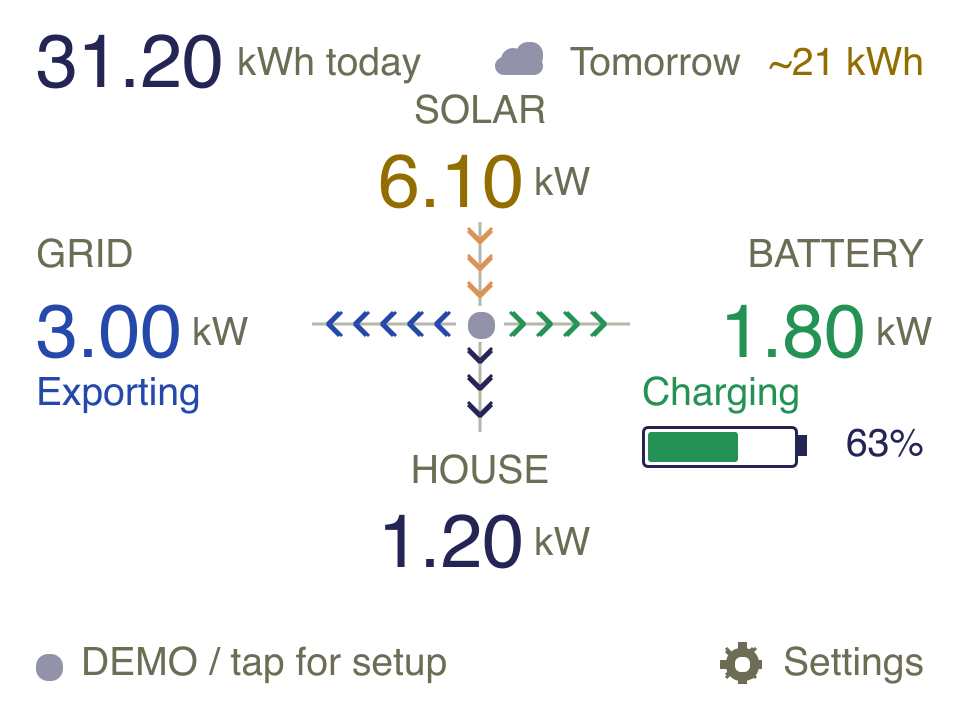
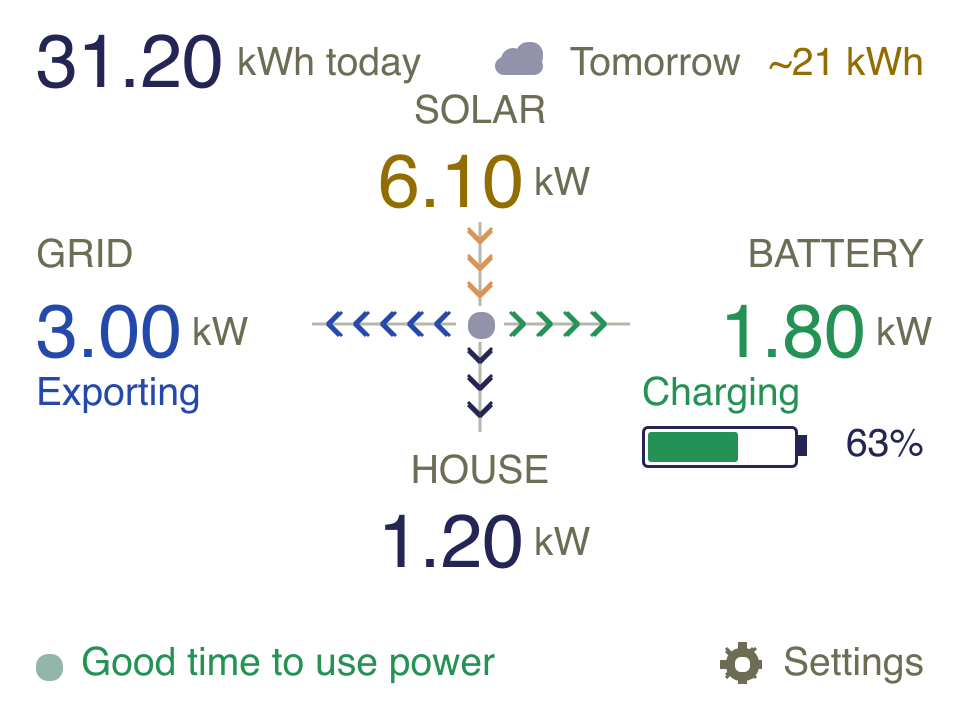
docs(handbook): match display section to firmware, consolidate markers
- Annotate the clock-and-weather top row; 17 markers cut to 9
- Arrows explained once; battery gauge and percentage combined
- kWh top row shown as a separate figure
- Previews drawn as live readings, not demo
- Fix not-configured caption and solar formula wording

Changed region(s): [[0.0312, 0.8861, 0.5312, 0.9472]]

diff --git a/docs/index.html b/docs/index.html
@@ -143,49 +143,36 @@ pio device monitor -b 115200 --port /dev/cu.usbserial-10</pre>
 <p>The bar along the bottom shows how long the screen stays up. It closes <b>6 seconds after Wi-Fi connects</b>, so the IP address can be read, or after <b>15 seconds</b> if Wi-Fi hasn't connected (the panel then shows the Wi-Fi setup page). A tap closes it at once. Readings are fetched in the background meanwhile, so the energy display is usually live as soon as it appears. Both times are <code>APP_BOOT_HOLD_MS</code> and <code>APP_BOOT_MAX_MS</code> in <code>include/config.h</code>.</p>
 
 <h2 id="display">The display</h2>
-<p>The centre-flow layout puts the four power flows on arms meeting at a central hub: solar above, house below, grid to the left and battery to the right. Arrows (chevrons) move in the direction power flows.</p>
+<p>The centre-flow layout puts the four power flows on arms meeting at a central dot, the inverter: solar above, house below, grid to the left and battery to the right. Each power figure is shown as a positive number, in watts below 1 kW and kW to two decimals above.</p>
+<p><b>Arrows.</b> Chevrons march along an arm in the direction power is flowing, in that reading's colour, while it is above 30 W. Solar always flows in and the house always flows out; grid arrows point in when importing and out when exporting; battery arrows point out when charging and in when the battery is supplying the house. Below 30 W, or when a reading isn't live, only a faint grey track is left.</p>
 <figure>
 <div class="annotated">
-<img src="images/centre-flow-preview.svg" alt="Annotated centre-flow layout">
-<span class="m" style="left:2%;top:6%">1</span>
-<span class="m" style="left:49%;top:6%">2</span>
-<span class="m" style="left:37%;top:24%">3</span>
-<span class="m" style="left:55%;top:37%">4</span>
-<span class="m" style="left:2%;top:33%">5</span>
-<span class="m" style="left:40%;top:40%">6</span>
-<span class="m" style="left:46%;top:52%">7</span>
-<span class="m" style="left:98%;top:33%">8</span>
-<span class="m" style="left:60%;top:40%">9</span>
-<span class="m" style="left:2%;top:55%">10</span>
-<span class="m" style="left:64%;top:55%">11</span>
-<span class="m" style="left:64%;top:65%">12</span>
-<span class="m" style="left:98%;top:62%">13</span>
-<span class="m" style="left:55%;top:55%">14</span>
-<span class="m" style="left:37%;top:74%">15</span>
-<span class="m" style="left:2%;top:91%">16</span>
-<span class="m" style="left:72%;top:91%">17</span>
+<img src="images/centre-weather-preview.svg" alt="Annotated centre-flow layout">
+<span class="m" style="left:34%;top:9%">1</span>
+<span class="m" style="left:58%;top:9%">2</span>
+<span class="m" style="left:60%;top:15%">3</span>
+<span class="m" style="left:17%;top:35%">4</span>
+<span class="m" style="left:74%;top:35%">5</span>
+<span class="m" style="left:64%;top:62%">6</span>
+<span class="m" style="left:40%;top:65%">7</span>
+<span class="m" style="left:55%;top:92%">8</span>
+<span class="m" style="left:72%;top:92%">9</span>
 </div>
-<figcaption>Numbered areas of the centre-flow layout (sample: importing from the grid while charging the battery).</figcaption>
+<figcaption>Centre-flow layout with weather set and no optional kWh entities (sample: exporting while charging the battery).</figcaption>
 </figure>
 <ol class="legend">
-<li><b>Today's solar energy</b> in kWh, from the optional daily entity. Without it, the clock is shown here, followed by the current temperature when weather is on.</li>
-<li><b>Tomorrow.</b> A weather icon for tomorrow's conditions, then the solar forecast (<code>~21 kWh</code>) or, without a forecast entity, tomorrow's maximum temperature. Shows <code>DEMO</code> or <code>OFFLINE</code> when neither is available.</li>
-<li><b>SOLAR</b>: generation, calculated as inverter DC power plus battery charging power, never below zero. Shown in watts below 1 kW, otherwise kW to two decimals.</li>
-<li><b>Solar arrows</b> run down into the hub while solar exceeds 30 W.</li>
-<li><b>GRID</b>: grid power, always shown as a positive number; the words beneath give the direction.</li>
-<li><b>Grid arrows</b> point into the hub when importing and away from it when exporting.</li>
-<li><b>Hub</b>: the inverter, where the four flows balance.</li>
-<li><b>BATTERY</b>: battery power, shown as a positive number.</li>
-<li><b>Battery arrows</b> point away from the hub when charging and into it when the battery is supplying the house.</li>
-<li><b>Grid state</b>: <i>Importing</i>, <i>Exporting</i>, <i>Idle</i> (within ±30 W) or <i>No data</i>.</li>
-<li><b>Battery state</b>: <i>Charging</i>, <i>Supplying</i> (discharging into the inverter to cover what the house needs), <i>Idle</i> or <i>No data</i>.</li>
-<li><b>Battery gauge</b>: filled to the state of energy. <span class="swatch" style="background:#249255"></span>green at 50% and above, <span class="swatch" style="background:#db9255"></span>amber from 20%, <span class="swatch" style="background:#db2400"></span>red below 20%.</li>
-<li><b>State of energy</b> as a percentage. This is the battery's charge level, not a share of the house load.</li>
-<li><b>House arrows</b> run from the hub down to the house while demand exceeds 30 W.</li>
-<li><b>HOUSE</b>: house demand, from the household entity.</li>
+<li><b>Clock and current temperature.</b> The temperature appears once a location is set. With the optional <i>Solar energy today</i> entity, today's solar kWh replaces both (see below).</li>
+<li><b>Tomorrow</b>: a weather icon and tomorrow's maximum temperature, or the solar forecast (<code>~21 kWh</code>) when a forecast entity is set. Shows <code>OFFLINE</code> when Wi-Fi is down and there is nothing to show here.</li>
+<li><b>Solar</b> generation: inverter DC power less any battery discharge, never below zero.</li>
+<li><b>Grid</b> power, with <i>Importing</i>, <i>Exporting</i>, <i>Idle</i> (within ±30 W) or <i>No data</i> beneath.</li>
+<li><b>Battery</b> power, with <i>Charging</i>, <i>Supplying</i> (covering what the house needs), <i>Idle</i> or <i>No data</i> beneath.</li>
+<li><b>Battery gauge</b>: filled to the state of energy, with the percentage beside it. <span class="swatch" style="background:#249255"></span>Green at 50% and above, <span class="swatch" style="background:#db9255"></span>amber from 20%, <span class="swatch" style="background:#db2400"></span>red below 20%. It is the charge level, not a share of the house load.</li>
+<li><b>House</b> demand, from the household entity.</li>
 <li><b>Status line.</b> A green dot and <i>Good time to use power</i> when every reading is live and you are exporting more than 100 W, or charging above 100 W with the battery at 95% or more. Otherwise <i>All readings live</i>, or the reason readings are missing (see <a href="#states">states</a>).</li>
 <li><b>Settings</b>: a reminder that tapping the screen opens the device setup page.</li>
 </ol>
+<figure><span class="panel"><img src="images/centre-flow-preview.svg" alt="Top row with today's solar energy and tomorrow's solar forecast"></span>
+<figcaption><b>With the optional kWh entities.</b> Today's solar energy replaces the clock top-left, and tomorrow's solar forecast replaces the maximum temperature top-right. Set them under <a href="#ha">Home Assistant setup</a>.</figcaption></figure>
 <div class="note"><b>Greyed values.</b> A value turns light grey and its arrows stop when the reading is missing, stale, or Wi-Fi is down. The last good number stays on screen rather than dropping to zero, so a grey <code>1.53</code> means "last known", not "now".</div>
 
 <h2 id="states">Display states</h2>
@@ -195,7 +182,7 @@ pio device monitor -b 115200 --port /dev/cu.usbserial-10</pre>
 <figure><span class="panel"><img src="images/centre-discharge-preview.svg" alt=""></span><figcaption><b>Battery supplying.</b> No solar; the battery covers the house and battery arrows point into the hub.</figcaption></figure>
 <figure><span class="panel"><img src="images/centre-night-preview.svg" alt=""></span><figcaption><b>Night.</b> Only the grid supplies the house; idle arms show a faint track without arrows.</figcaption></figure>
 <figure><span class="panel"><img src="images/centre-stale-preview.svg" alt=""></span><figcaption><b>Offline or stale.</b> Values grey out and keep their last numbers; the status line gives the reason.</figcaption></figure>
-<figure><span class="panel"><img src="images/centre-setup-preview.svg" alt=""></span><figcaption><b>Not configured.</b> No readings yet; the status line asks for a Home Assistant token.</figcaption></figure>
+<figure><span class="panel"><img src="images/centre-setup-preview.svg" alt=""></span><figcaption><b>Not configured.</b> No readings yet, so every value shows <code>--</code>. The browser's Device status panel says <i>Configure Home Assistant token</i>.</figcaption></figure>
 <figure><span class="panel"><img src="images/centre-weather-preview.svg" alt=""></span><figcaption><b>Weather only.</b> Without the optional kWh entities, the clock and current temperature appear top-left and tomorrow's maximum top-right.</figcaption></figure>
 </div>
 <h3>Status line messages</h3>
@@ -261,7 +248,7 @@ pio device monitor -b 115200 --port /dev/cu.usbserial-10</pre>
 
 <h2 id="data">How readings are judged</h2>
 <h3>Signs and solar</h3>
-<p>Internally, grid is positive for import and battery is positive for discharge; the Home Assistant sources use the opposite signs and are converted on read. Solar is <code>max(inverter DC + battery charging, 0)</code>, the single-inverter, single-battery formula documented by SolarEdge Modbus Multi. Inverter AC is never used for solar, and battery DC is never added to the AC household balance.</p>
+<p>Internally, grid is positive for import and battery is positive for discharge; the Home Assistant sources use the opposite signs and are converted on read. Solar is <code>max(inverter DC − battery discharge, 0)</code> (a charging battery counts as negative discharge, so its power is added back), the single-inverter, single-battery formula documented by SolarEdge Modbus Multi. Inverter AC is never used for solar, and battery DC is never added to the AC household balance.</p>
 <h3>Freshness</h3>
 <ul>
 <li>A reading must have been received within <b>Stale after</b> seconds.</li>

diff --git a/tools/render_preview.cpp b/tools/render_preview.cpp
@@ -55,9 +55,10 @@ int main(int argc,char**argv) {
     for(bool& b:v.totalLive)b=true;
     v.weatherLive=true;
     if(argc>3)for(bool& b:v.totalLive)b=false;  // No HA totals: clock and weather only.
-    v.status="DEMO / tap for setup";v.address="192.168.1.50";v.batteryLabel="LG 9.8 kWh";
+    // Sample values come from the demo scenes, but are drawn as live readings.
+    v.data.demo=false;v.status="Live / tap for device settings";v.address="192.168.1.50";v.batteryLabel="LG 9.8 kWh";
     if(scene==4){for(bool& b:v.usable)b=false;for(bool& b:v.totalLive)b=false;v.weatherLive=false;v.data.demo=false;v.wifi=false;v.status="WiFi disconnected";}
-    if(scene==5){v.weatherLive=false;v.data=energy::Snapshot();for(bool& b:v.usable)b=false;for(bool& b:v.totalLive)b=false;v.status="Configure Home Assistant";}
+    if(scene==5){v.weatherLive=false;v.data=energy::Snapshot();for(bool& b:v.usable)b=false;for(bool& b:v.totalLive)b=false;v.status="Waiting / stale or unavailable";}
     std::cout<<head;
     ui::drawFlow(c,v);std::cout<<"</svg>\n";
 }

diff --git a/CHANGELOG.md b/CHANGELOG.md
@@ -7,6 +7,8 @@
 - Web UI rebuilt in the SpendAnalysis style: warm paper palette with matching dark mode, amber accent for controls only, green/red for meaning, mono uppercase micro-labels, cream cards, grouped sidebar (Live · Settings · Device) and a CRT "Device status" panel.
 - Settings split into Home Assistant, Display, Location & weather and Entities sections; Save on any section saves all, and an invalid field elsewhere switches to its section.
 - Diagnostics shown as a table, with the raw status JSON behind a disclosure.
+- Handbook display section: annotated with the clock-and-weather top row (the common setup) and cut from 17 markers to 9; arrows explained once instead of per arm, battery gauge and percentage combined. The kWh top row is shown separately.
+- Handbook previews are drawn as live readings rather than demo, so the status line shows "All readings live" / "Good time to use power" as on a working panel.
 
 ### Added
 
@@ -21,6 +23,7 @@
 - Boot loop since 0.4.0: the Open-Meteo TLS handshake (ECDSA chain, about 7.6 s on the device) blocked core 0 without yielding, so the task watchdog aborted about 19 s after boot. Core 0's idle task is now taken off the watchdog only while a TLS session is open (weather, and HTTPS Home Assistant). Verified on hardware: weather `http=200`, no resets, all readings fresh.
 - First readings now reach the panel about 2 s after boot instead of about 19 s: a Home Assistant read attempted before Wi-Fi is up no longer triggers a 10 s backoff, and the first weather fetch waits until readings have been published.
 - Weather TLS handshake limit raised from 8 s to 20 s (`APP_TLS_HANDSHAKE_S`); measured handshakes on the device take 4–9 s, so 8 s failed intermittently.
+- Handbook: the not-configured preview and caption claimed the panel asks for a token; the panel shows "Waiting / stale or unavailable" and the token prompt is in the browser. The solar formula now reads DC less battery discharge.
 - Reverted the 0.5.0 panel re-layout: font 6 values made the panel hard to read and dropped the SOLAR/GRID/BATTERY/HOUSE labels and card subtitles. Both layouts are back to the labelled 0.4.0 design.
 
 ---
